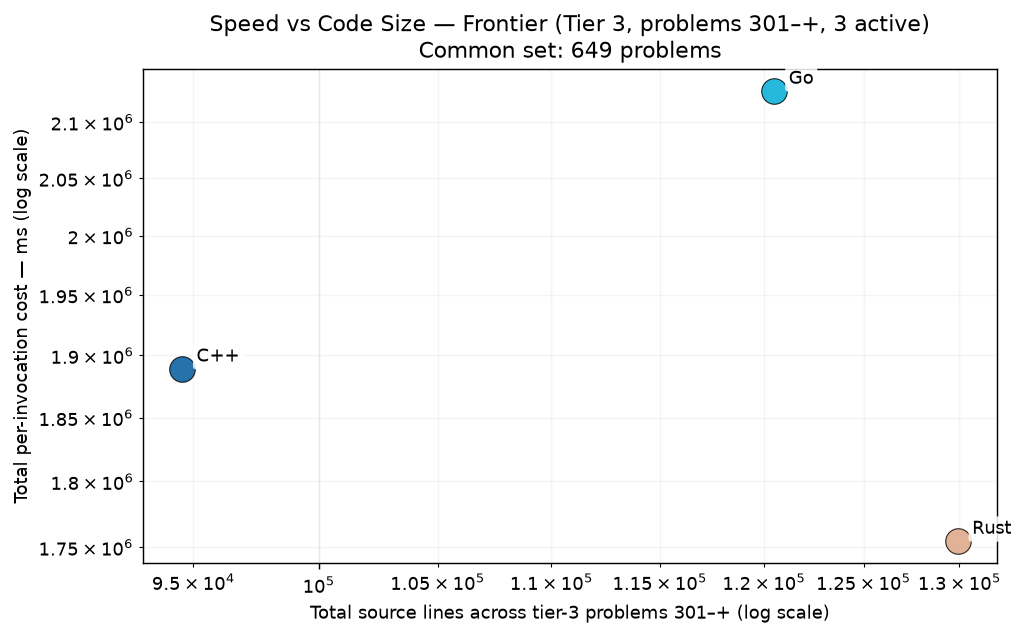
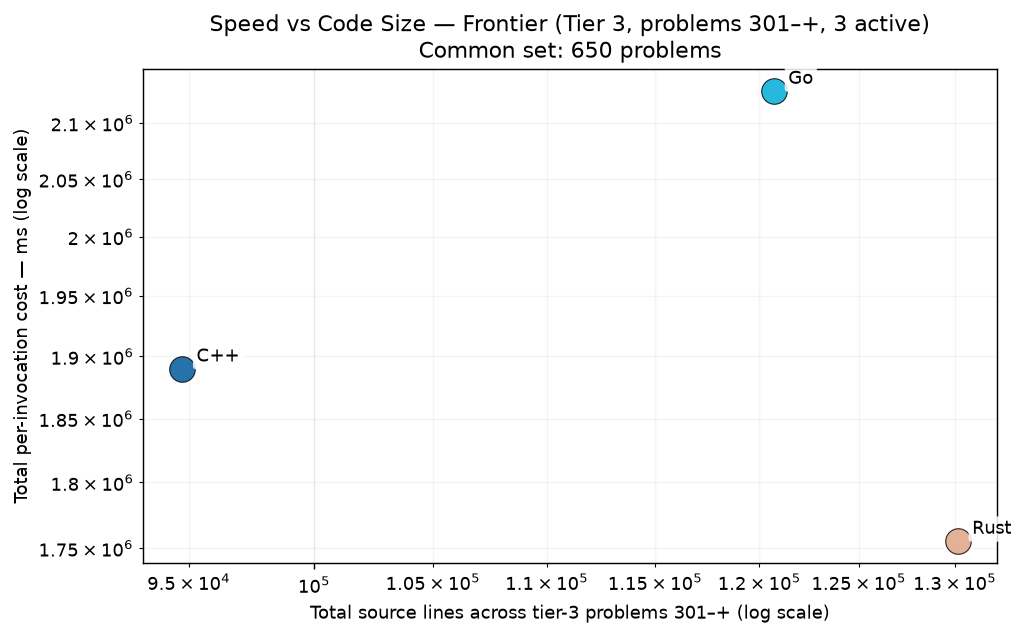
cpp p0782

diff --git a/RESULTS.md b/RESULTS.md
@@ -1,6 +1,6 @@
 # Project Euler — Cross-Language Benchmarks
 
-> **Scope: 4521 in-scope cells across 1007 problems × tiered languages — 4405 measured (97.4% coverage).**
+> **Scope: 4521 in-scope cells across 1007 problems × tiered languages — 4406 measured (97.5% coverage).**
 > The cross-language ranking below is computed over the **200-problem common set** (problems in 1-200 where every language has a passing measurement) — the apples-to-apples Foundation comparison surface.  Per-tier rankings and coverage detail appear further below.
 > Growing carefully — each new problem and language is audited for state-leak
 > safety, verified for answer correctness, and added only when it cleanly fits the
@@ -70,15 +70,15 @@ Same scatter as the Foundation chart, restricted to the tier-2 active languages 
 
 The frontier verification trio — C++, Go, Rust — on problems above 300. 3-way cross-language agreement is the verification protocol (strictly stronger than 2-way; see JOURNEY.md "Tier Reframing" episode for the p254 lesson that motivated it). Python and Zig are explicitly out of this tier — python's wall cost makes it impractical at level 5+, and zig's role caps at Tier 2.
 
-### Per-Invocation Cost (Common Set, 649 of ≤707 problems in scope)
+### Per-Invocation Cost (Common Set, 650 of ≤707 problems in scope)
 
 ![Per-Invocation Cost — Tier 3](charts/per_iter_total_tier3.png)
 
-| Rank | Language | Geomean (649-problem common set) | Total (sum) | Lines of code | vs Fastest |
+| Rank | Language | Geomean (650-problem common set) | Total (sum) | Lines of code | vs Fastest |
 |------|----------|--------------------:|------------:|--------------:|-----------:|
-| 1 | **Rust** | 74.55 ms | 1754.66 s | 129,910 | 1.00× |
-| 2 | **C++** | 77.49 ms | 1889.17 s | 94,562 | 1.04× |
-| 3 | **Go** | 87.52 ms | 2128.12 s | 120,511 | 1.17× |
+| 1 | **Rust** | 74.81 ms | 1755.39 s | 130,158 | 1.00× |
+| 2 | **C++** | 77.76 ms | 1889.95 s | 94,744 | 1.04× |
+| 3 | **Go** | 87.81 ms | 2128.89 s | 120,719 | 1.17× |
 
 ### Speed vs Code Size
 
@@ -264,7 +264,7 @@ table never silently mixes versions (METHODOLOGY.md §4).  Current state of the
 |----------|-----------|------:|---------------|
 | **ARM64** | `Apple clang version 21.0.0 (clang-2100.1.1.101)` | 200 | 2026-07-30 |
 | **C** | `Apple clang version 21.0.0 (clang-2100.1.1.101)` | 200 | 2026-07-30 |
-| **C++** | `Apple clang version 21.0.0 (clang-2100.1.1.101)` | 950 | 2026-09-05 |
+| **C++** | `Apple clang version 21.0.0 (clang-2100.1.1.101)` | 951 | 2026-09-05 |
 | **C#** | `10.0.101` | 200 | 2026-07-30 |
 | **Go** | `go version go1.26.5 darwin/arm64` | 953 | 2026-09-05 |
 | **Java** | `openjdk version "21.0.2" 2024-01-16 LTS` | 200 | 2026-07-30 |

diff --git a/per_problem/per_problem_0701-0800.md b/per_problem/per_problem_0701-0800.md
@@ -89,7 +89,7 @@ in tier-1 display order (native → managed → interpreted).
 | **p0779** | 7.53 ms | 2.46 ms | 2.49 ms |
 | **p0780** | 3.13 s | 3.79 s | 4.52 s |
 | **p0781** | 881.94 ms | 194.39 ms | 277.38 ms |
-| **p0782** | — | 726.96 ms | 769.38 ms |
+| **p0782** | 779.48 ms | 726.96 ms | 769.38 ms |
 | **p0783** | 4.07 ms | 5.27 ms | 5.54 ms |
 | **p0784** | 246.65 ms | 232.36 ms | 205.94 ms |
 | **p0785** | 3.06 s | 8.98 s | 7.68 s |
